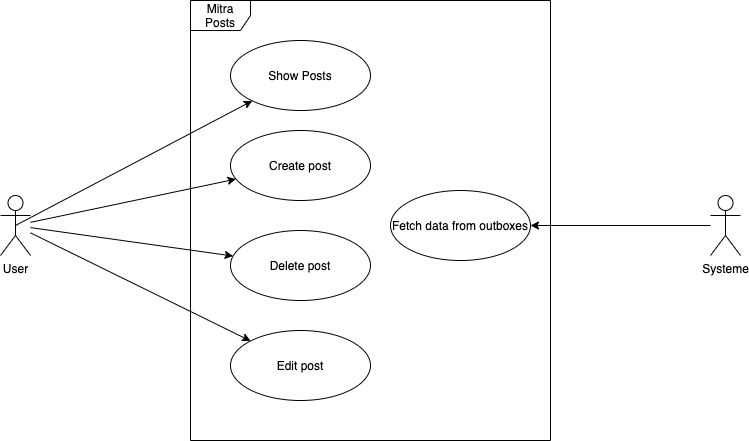
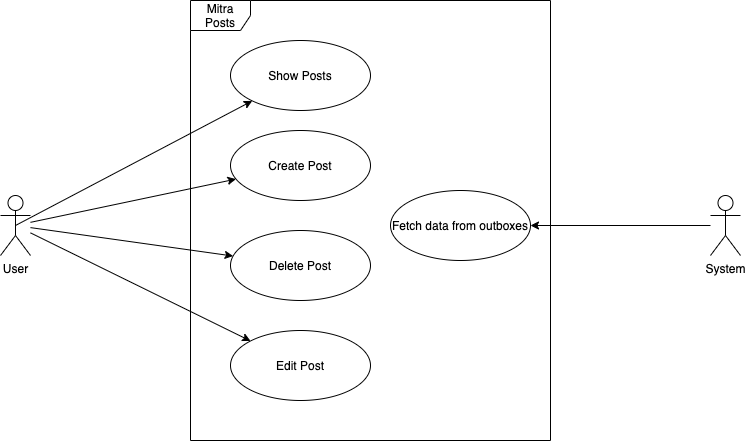
Update pm and use cases

diff --git a/documents/requirements.md b/documents/requirements.md
@@ -9,7 +9,6 @@
 | Identifier          | -       |
 | Name                | -       |
 | Author              | -       |
-| Priorität           | -       |
 | Priority            | -       |
 | Criticality         | -       |
 | Origin              | -       |
@@ -28,13 +27,13 @@
 Section | Content
 ------------------------| -------------
 Identifier | UC-01
-Name | Registry
+Name | Registration
 Author | Pascal, Franco
 Priority | High importance for system success. Technological risk low
 Criticality | High
 Responsibility | Pascal, Franco
 Description | The user registers on the Mitra site with his email, preferred username and password.
-Triggering Event | Click on the registration button.
+Triggering iEvent | Click on the registration button.
 Actor | User
 Precondition | Email or preferred username is not registered.
 Exception scenarios | Email or preferred username already exists. The repeating password does not match.
@@ -100,13 +99,29 @@ Quality |
 | Exception scenarios | The repeating password does not match.                          |
 | Quality             |
 
+| Section             | Content                                                                                                         |
+| ------------------- | --------------------------------------------------------------------------------------------------------------- |
+| Identifier          | UC-06                                                                                                           |
+| Name                | Forgot Password                                                                                                 |
+| Author              | Pascal, Franco                                                                                                  |
+| Priority            | Low importance for system success. Technological risk high                                                      |
+| Criticality         | Low                                                                                                             |
+| Responsibility      | Pascal, Franco                                                                                                  |
+| Description         | Wenn der User sein Passwort nicht mehr weiss, so kann er das Passwort mit der Angabe seines Email zurücksetzen. |
+| Triggering Event    | Click the Forgot Password Link.                                                                                 |
+| Actor               | User                                                                                                            |
+| Postcondition       | E-Mail exists.                                                                                                  |
+| Exception scenarios | The email does not exist.                                                                                       |
+
+| Quality
+
 ### Posts Case
 
 ![Usetr](./stuff/use-case-posts.png)
 Section | Content
 ------------------------| -------------
-Identifier | UC-06
-Name | Show posts
+Identifier | UC-07
+Name | Show Posts
 Author | Pascal, Franco
 Priority | High importance for system success. Technological risk high
 Criticality | High
@@ -120,8 +135,8 @@ Quality |
 
 | Section          | Content                                                                  |
 | ---------------- | ------------------------------------------------------------------------ |
-| Identifier       | UC-07                                                                    |
-| Name             | Create post                                                              |
+| Identifier       | UC-08                                                                    |
+| Name             | Create Post                                                              |
 | Author           | Pascal, Franco                                                           |
 | Priority         | Middle importance for system success. Technological risk high            |
 | Criticality      | Low                                                                      |
@@ -135,8 +150,8 @@ Quality |
 
 | Section          | Content                                                       |
 | ---------------- | ------------------------------------------------------------- |
-| Identifier       | UC-08                                                         |
-| Name             | Edit post                                                     |
+| Identifier       | UC-09                                                         |
+| Name             | Edit Post                                                     |
 | Author           | Pascal, Franco                                                |
 | Priority         | Middle importance for system success. Technological risk high |
 | Criticality      | Low                                                           |
@@ -150,8 +165,8 @@ Quality |
 
 | Section          | Content                                                       |
 | ---------------- | ------------------------------------------------------------- |
-| Identifier       | UC-09                                                         |
-| Name             | Delete post                                                   |
+| Identifier       | UC-10                                                         |
+| Name             | Delete Post                                                   |
 | Author           | Pascal, Franco                                                |
 | Priority         | Middle importance for system success. Technological risk high |
 | Criticality      | Low                                                           |
@@ -165,7 +180,7 @@ Quality |
 
 | Section          | Content                                                                       |
 | ---------------- | ----------------------------------------------------------------------------- |
-| Identifier       | UC-10                                                                         |
+| Identifier       | UC-11                                                                         |
 | Name             | Fetch data from outboxes                                                      |
 | Author           | Pascal, Franco                                                                |
 | Priority         | High importance for system success. Technological risk high                   |
@@ -182,7 +197,7 @@ Quality |
 
 | Section          | Content                                                         |
 | ---------------- | --------------------------------------------------------------- |
-| Identifier       | UC-11                                                           |
+| Identifier       | UC-12                                                           |
 | Name             | Follow actor                                                    |
 | Author           | Pascal, Franco                                                  |
 | Priority         | Middle importance for system success. Technological risk middle |
@@ -196,7 +211,7 @@ Quality |
 
 | Section          | Content                                                         |
 | ---------------- | --------------------------------------------------------------- |
-| Identifier       | UC-12                                                           |
+| Identifier       | UC-13                                                           |
 | Name             | Unfollow actor                                                  |
 | Author           | Pascal, Franco                                                  |
 | Priority         | Middle importance for system success. Technological risk middle |
@@ -206,21 +221,6 @@ Quality |
 | Triggering Event | Click the unfollow button of the desired user.                  |
 | Actor            | User                                                            |
 | Postcondition    | Token is correct.                                               |
-| Quality          |
-
-| Section          | Content                                                                                                      |
-| ---------------- | ------------------------------------------------------------------------------------------------------------ |
-| Identifier       | UC-13                                                                                                        |
-| Name             | Confirm follow request                                                                                       |
-| Author           | Pascal, Franco                                                                                               |
-| Priority         | Middle importance for system success. Technological risk middle                                              |
-| Criticality      | Middle                                                                                                       |
-| Responsibility   | Pascal, Franco                                                                                               |
-| Description      | The user can accept or reject a follow request.                                                              |
-| Triggering Event | The login redirects to the home with the posts, the home link is clicked or system pulling with a intervall. |
-| Actor            | User                                                                                                         |
-| Precondition     | A follow request from another user exists                                                                    |
-| Postcondition    | Token is correct.                                                                                            |
 | Quality          |
 
 • Geschäftsregeln

diff --git a/documents/project-management.md b/documents/project-management.md
@@ -1,6 +1,6 @@
 # Project Mitra
 
-## Project order
+## Project period
 
 | Project start | End of project |
 | ------------- | -------------- |
@@ -8,11 +8,26 @@
 
 ## Project goals
 
+Software is to be developed which enables the following goals and functions:
+
+- You want to be able to register and then log in with your user.
+- User should receive posts from other users who are followed.
+- Contemporary and simple design.
+- Easy handling.
+
 ## Justification, benefits
+
+- Many implementations of the Standard ActivityPub are clones from well-known social media, you want to get the best stuff of them all.
+- Reduce the limitations of how to implement activity pub.
 
 ## Non-goals
 
+- Additional functions should be implemented after the master's thesis, as there is not enough time for a comprehensive implementation of the ActivityPub standard.
+
 ## Criteria for the successful end of the project
+
+- A working installation where a logged in user can see posts.
+- Documentation complete.
 
 ## Necessary core project team
 
@@ -23,8 +38,6 @@
 ## Milestones
 
 ![Usetr](./stuff/project-mitra-timeline.jpg)
-
-## Other framework conditions
 
 ## Meetings
 
